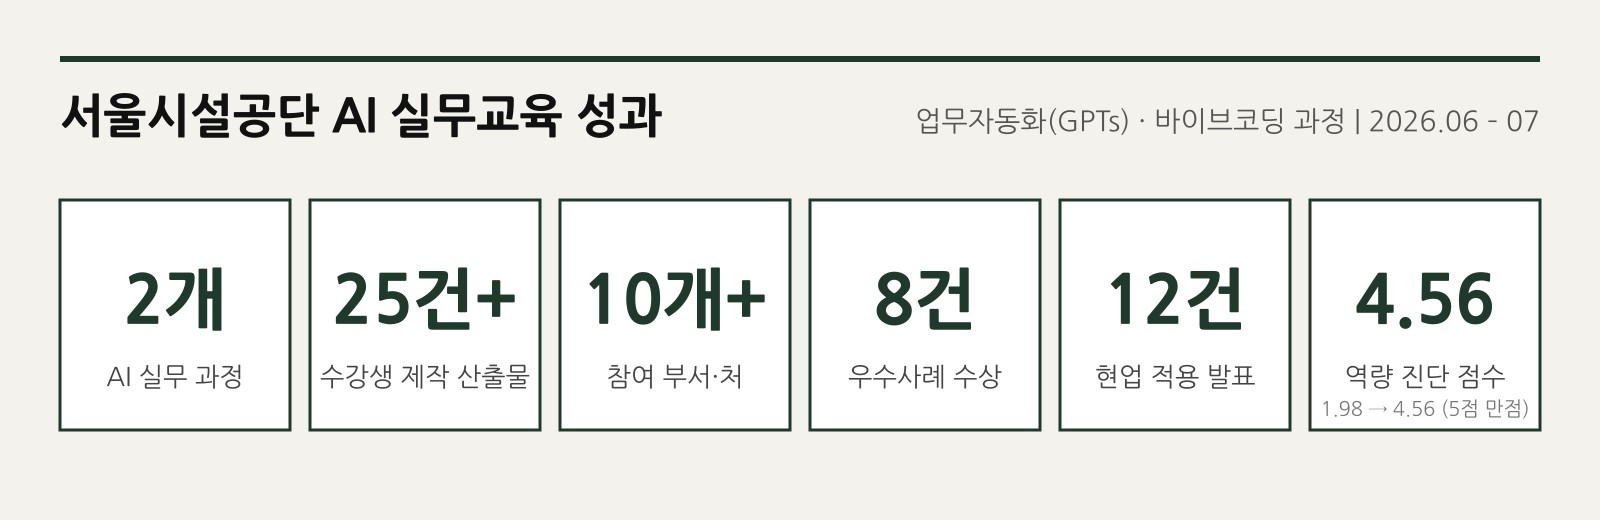
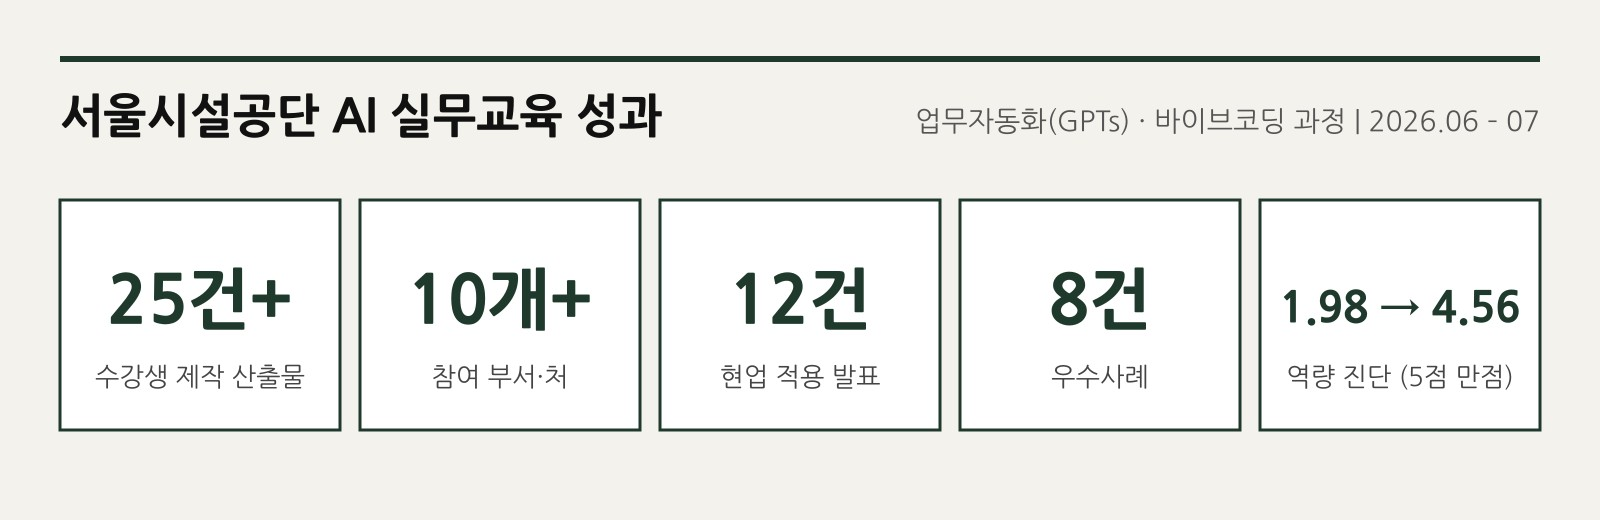
AI Product Builder 지원용 개편: 문제-설계-결과 구조, L-Desk 추가

diff --git a/README.md b/README.md
@@ -1,18 +1,13 @@
 <table>
 <tr>
 <td width="250" valign="top"><img src="images/profile.jpg" width="230" alt="한지인"></td>
-<td valign="top">
+<td valign="middle">
 
-# 한지인 &nbsp;<sub>JIIN HAN</sub>
+<h1>현업의 병목을 발견해<br>실제 사용까지 연결하는</h1>
 
-**AI Product Builder** &nbsp;·&nbsp; AI가 덜어낸 시간을 창작의 몰입으로 돌려놓는 사람
+AI Product Builder입니다.
 
-**쓰는 사람의 자리에서 설계합니다.**<br>
-무엇을 AI에 맡기고, 어디서 사람이 검증하며, 확보한 시간으로 무엇에 몰입할지까지 제품에 담습니다.<br>
-남의 업무에서 병목을 찾아 제품으로 옮기고, 만든 것을 조직에 퍼뜨려 실제로 쓰이게 합니다.<br>
-영화를 만들어 온 경험으로, 콘텐츠 제작 현장의 "이 일이 왜 막히는가"를 구체적으로 묻습니다.
-
-📧 **blank.hrder@gmail.com**
+<sub>한지인 · JIIN HAN &nbsp;|&nbsp; 📧 blank.hrder@gmail.com</sub>
 
 </td>
 </tr>
@@ -22,43 +17,124 @@
 
 ## 목차
 
-| | 프로젝트 | 분야 |
+| | 프로젝트 | 한 줄 설명 |
 |:--:|---|---|
-| **1** | [**서울시설공단 AI 실무교육**](#1-서울시설공단-ai-실무교육) | AX 교육 과정 기획 · 제안 |
-| **2** | [**Contents Studio**](#2-contents-studio) | 영화 사전제작 웹앱 기획 · 바이브코딩 |
-| **3** | [**Blanco**](#3-blanco) | 팀 업무관리 도구 기획 · 바이브코딩 |
-| **4** | [**수용자 중심 피드백 문화 이러닝**](#4-수용자-중심-피드백-문화-이러닝) | 이러닝 기획 · 제작 · 출연 |
-| **5** | [**기후위기 인터랙티브 무비**](#5-기후위기-인터랙티브-무비) | 인터랙티브 영상 기획 · 연출 · 🏆 대상 |
+| **1** | [**Contents Studio**](#1-contents-studio) | 같은 정보를 두 번 입력하지 않는 영화 제작 통합 웹앱 |
+| **2** | [**서울시설공단 AI 실무교육**](#2-서울시설공단-ai-실무교육) | 현업의 문제를 3주 만에 작동하는 AI 시스템으로 전환 |
+| **3** | [**L-Desk**](#3-l-desk) | 흩어진 교육 운영을 하나의 파이프라인으로 연결한 사내 LMS |
+| **4** | [**Blanco**](#4-blanco) | 흩어진 업무 암묵지를 실행 가능한 To-do로 바꾸는 팀 업무도구 |
+| **5** | [**Interactive Learning**](#5-interactive-learning) | 데이터로 문제를 확인하고 수용자별 학습 경험으로 설계 |
+| **6** | [**Interactive Movie**](#6-interactive-movie) | 관객의 선택이 이야기의 결과를 바꾸는 인터랙티브 콘텐츠 |
 
 <br>
 
 ---
 
-<sub>**실무 · 교육 과정 기획** &nbsp;|&nbsp; AX 교육</sub>
+<sub>**개인 프로젝트** &nbsp;|&nbsp; 기획 · UX 구조화 · Claude Code 기반 개발 &nbsp;|&nbsp; 2026.07 – 09 (진행 중)</sub>
 
-## 1. 서울시설공단 AI 실무교육
+## 1. Contents Studio
+
+**같은 정보를 두 번 입력하지 않는 영화 제작 통합 웹앱**
+
+👉 **[웹앱 바로가기](https://contents-studio-rouge.vercel.app)** &nbsp;|&nbsp; 데모 계정 `blank.hrder@gmail.com` / `123456` (보기 전용 · 예시 프로젝트 「마지막 손님」)
+
+<img src="images/cs_storyboard.jpg" alt="스토리보드">
+
+| 문제 | 설계 |
+|---|---|
+| 시나리오 · 글콘티 · 스토리보드 · 샷리스트 · 일촬표에 **같은 씬·샷 정보를 반복 입력**<br>한 곳이 바뀌면 다른 문서를 사람이 다시 수정 | 문서를 따로 관리하지 않고, 제작 정보가 **하나의 데이터 흐름**으로 이어지도록 구조화<br>한 번 입력한 정보를 다른 제작 문서에서 재사용 |
+
+**데이터 흐름**
+
+| **Scene** | → | **Shot** | → | **Schedule** | → | **Resource** | → | **Budget** |
+|:--:|:--:|:--:|:--:|:--:|:--:|:--:|:--:|:--:|
+| 시나리오 · 씬 리스트 | | 글콘티 · 스토리보드 · 샷리스트 | | 일촬표 · 진행도 | | 로케이션 · 장비 · 인원 | | 예산안 · 결산안 |
+
+**대표 설계**
+
+| 설계 | 판단 기준을 규칙으로 |
+|---|---|
+| **기본값 상속** | 프로젝트 → 씬 → 샷 순으로 연출 기본값을 물려받고, 샷에서 바꾼 값만 따로 저장 |
+| **촬영시간 자동 계산** | 샷 수 · 세팅 · 장비 중간 세팅 · 해체 · 난이도를 일촬표 작성 기준대로 계산하고, 우선순위에 따라 촬영순서 제안 |
+| **로케이션 비용 자동 계산** | 시간당 · 인원 할증 · 최소 예약시간 규칙으로 후보 장소별 대관료 비교, 미정 금액은 0원이 아닌 상태로 구분 |
+| **계획 ↔ 실제 비교** | 일촬표 계획 시간과 현장 테이크 기록을 대조해 촬영 진행도 표시 |
+
+> **전문가의 판단을 AI가 대신하게 하기보다,<br>반복되는 판단 기준을 제품의 규칙으로 옮겼습니다.**
+
+<table>
+<tr>
+<td><img src="images/cs_shots_grouped.jpg" alt="샷 리스트 촬영순서"><br><sub>샷 리스트 · 우선순위 기준 자동 분류와 세팅·해체 시간</sub></td>
+<td><img src="images/cs_callsheet.jpg" alt="일일촬영계획표"><br><sub>일일촬영계획표 · 다른 문서의 정보로 자동 구성</sub></td>
+</tr>
+<tr>
+<td><img src="images/cs_locations.jpg" alt="로케이션"><br><sub>로케이션 · 후보별 대관료 자동 계산</sub></td>
+<td><img src="images/cs_budget.jpg" alt="결산안"><br><sub>제작비 · 대여 장비 임차비 자동 반영</sub></td>
+</tr>
+<tr>
+<td><img src="images/cs_conti.jpg" alt="글콘티"><br><sub>글콘티 · 시나리오를 컷으로 나누고 연출 선택</sub></td>
+<td><img src="images/cs_floorplan.jpg" alt="플로어플랜"><br><sub>플로어플랜 · 카메라·배우·장비 배치와 동선</sub></td>
+</tr>
+</table>
+
+<details>
+<summary><b>개발 방식 · AI 에이전트와 일하는 규칙</b></summary>
+
+<br>
+
+- **규칙을 문서로 먼저**: 디자인 · 입력 흐름 · 권한 · 사전 승인이 필요한 작업을 `CLAUDE.md`에 명문화해 모든 화면이 같은 기준으로 만들어지도록 설계
+- **결정은 사람, 실행은 에이전트**: DB 구조 변경 · 삭제 · 권한 변경은 사전 승인 후 진행, 매 변경마다 타입 검사 · 린트 · 빌드로 검증
+- **검증 루프**: 마이그레이션과 예시 데이터를 테스트 DB에서 먼저 실행한 뒤 실제 DB에 적용
+- **계산 로직 분리**: 촬영순서 · 대관료 · 제작비 계산을 화면과 분리된 공통 함수로 구조화
+
+`Next.js` `TypeScript` `Supabase` `Vercel` · `Claude Code` `VS Code`
+
+</details>
+
+<br>
+
+---
+
+<sub>**실무 · 발주처 서울시설공단** &nbsp;|&nbsp; 과정 기획 · 현업 과제 구조화 · 실습 운영 · 결과물 고도화 &nbsp;|&nbsp; 2026.06 – 07</sub>
+
+## 2. 서울시설공단 AI 실무교육
+
+**현업의 문제를 3주 만에 작동하는 AI 시스템으로 전환**
+
+| Before | After |
+|---|---|
+| AI 도구 사용법을 배우는 교육 | 직원이 **자기 부서의 실제 문제를 선정**하고, 3주 동안 AI 웹앱 · 자동화 시스템으로 구현하도록 설계 |
+
+**대표 사례** — 한 번의 답변이 아니라, 여러 단계의 분석과 판단이 이어지는 Multi-step AI Workflow
+
+<table>
+<tr>
+<td width="50%" valign="top">
+
+**① 현장 위험성 평가 시스템** · 안전관리 · 🏆 수상
+
+| 현장 사진 | → | 위험요인 분석 | → | 법령 근거 연결 | → | 위험성 평가 지원 |
+|:--:|:--:|:--:|:--:|:--:|:--:|:--:|
+
+현장 사진에서 위험요인을 식별하고, 관련 법령 근거까지 연결해 위험성 평가를 지원하는 AI 웹앱
+
+</td>
+<td width="50%" valign="top">
+
+**② 공공자전거 수리 우선순위 시스템** · 공공자전거 운영처 · 🏆 수상
+
+| 고장 데이터 | → | 수리 대상 선별 | → | 우선순위 판단 | → | 정비 대상 정리 |
+|:--:|:--:|:--:|:--:|:--:|:--:|:--:|
+
+고장 데이터를 기반으로 수리가 필요한 자전거를 자동 선별하고 수리 우선순위를 제안하는 업무 시스템
+
+</td>
+</tr>
+</table>
 
 <img src="images/sfc_kpi.jpg" alt="서울시설공단 AI 실무교육 성과">
 
-| | |
-|---|---|
-| **프로젝트 개요** | 서울시설공단 직원(사무·조경·시설직)을 위한 AI 실무교육 2개 과정을 기획·제안했습니다. 도구 사용법 실습이 아니라, 직원들이 **자기 부서의 실제 업무를 3주 만에 작동하는 AI 시스템으로 만드는** 프로젝트형 과정으로 설계했습니다. |
-| **과정 구성** | ① AI 기반 업무자동화(GPTs) 과정 &nbsp; ② 바이브코딩 — AI 웹앱 개발 실전 과정<br>각 3주 시리즈 · 본인 과제 1개를 회차마다 발전시켜 완성 |
-| **주요 결과** | 수강생 제작 산출물 **25건+** · 참여 부서 **10개+** · 우수사례 **8건** 수상 · 현업 적용 발표 **12건**<br>참여자 역량 진단 점수 **1.98 → 4.56점** (5점 만점) · 후속 리더십(직위자) 과정 요청으로 이어짐 |
-| **역할** | 과정 기획 · 제안, 과정 설계, 보조강사<br>바이브코딩 과정에서 직원들이 각자 부서의 병목을 진단하고 웹앱으로 기획하도록 코칭 |
-| **발주처** | 서울시설공단 |
-| **기간** | 2026년 6월 – 7월 |
-
-**대표 성과**
-
-> **① 주요사업 통합 관리 대시보드 — 기획조정실** &nbsp;·&nbsp; *프로세스 재설계*<br>
-> 공단 200여 개 주요사업을 부서·전략별로 검색하고, 분기 실적 입력 · AI 사업개요 요약 · 추진결과 보고서(PDF) 자동 생성까지 하나로 묶었습니다. 부서→담당→기획실로 이어지던 다단계 한글파일 취합 절차 자체를 대체했고, 상반기 실적 제출부터 실사용 · 사내서버 연동 예정입니다.
-
-> **② 미납 관리 웹 크롤링 실행파일(exe) — 수납·계약 담당** &nbsp;·&nbsp; *입문자의 실행파일*<br>
-> AI를 처음 다뤄 본 직원이 3주 만에 미납 정보를 자동 수집해 엑셀로 정리하는 실행파일을 만들었습니다. 100~200건을 순식간에 처리하고, 개인정보를 외부에 올리지 않는 로컬 방식이라 보안에도 유리합니다. 최종 베스트케이스로 수상했습니다.
-
 <details>
-<summary><b>과정별 결과물 자세히 보기</b></summary>
+<summary><b>과정별 결과물 전체 보기</b></summary>
 
 <br>
 
@@ -76,7 +152,7 @@
 
 | 부서 | 만든 시스템 | 상태 |
 |---|---|---|
-| 기획조정실 | 주요사업 통합 관리 대시보드 | 완성 · 도입 예정 |
+| 기획조정실 | 주요사업 통합 관리 대시보드 (200여 개 사업, 보고 절차 대체) | 완성 · 도입 예정 |
 | 안전관리 | 현장 위험성 평가 앱 (사진 분석 · 법령 근거) | 완성 · 수상 |
 | 인재문화원 | 교육운영 도우미 · 자격증 지원 · 만족도 실시간 조사 | 완성 · 라이브 테스트 |
 | 공공자전거 운영처 | 고장 자전거 자동 선별 · 수리 우선순위 | 완성 · 수상 |
@@ -91,79 +167,63 @@
 
 ---
 
-<sub>**개인 프로젝트** &nbsp;|&nbsp; 웹앱 기획 · 바이브코딩</sub>
+<sub>**실무 · 사내 시스템** &nbsp;|&nbsp; 기획 · AI 활용 개발 · 사내 적용 및 확산</sub>
 
-## 2. Contents Studio
+## 3. L-Desk
 
-**시나리오 한 번 입력으로, 촬영 현장까지 모든 문서가 연결되는 영화 사전제작 통합 웹앱**
+**흩어진 교육 운영을 하나의 파이프라인으로 연결한 사내 LMS**
 
-👉 **[웹앱 바로가기](https://contents-studio-rouge.vercel.app)** &nbsp;|&nbsp; 데모 계정 `blank.hrder@gmail.com` / `123456` (보기 전용 · 예시 프로젝트 「마지막 손님」)
-
-<img src="images/cs_storyboard.jpg" alt="스토리보드">
-
-| | |
+| 문제 | 설계 |
 |---|---|
-| **프로젝트 개요** | 가톨릭대 영상 창업동아리 **'디프'**를 이끌며, 일하는 구조를 맞춰야 창작에 몰입할 수 있다는 것을 배웠습니다. 시나리오·콘티·일촬표·제작비를 각각 다른 엑셀과 문서로 관리하던 불편을 풀기 위해 만든 제작 웹앱입니다. 씬 → 컷(샷) → 촬영 일정 → 예산이 **하나의 데이터로 이어져**, 한 곳을 고치면 모든 문서가 함께 바뀝니다. |
-| **주요 기능** | 시나리오 · 글콘티 · 스토리보드 · 샷 리스트 · 일일촬영계획표 · 로케이션 · 장비/대여 · 배우/스태프 · 의상/소품 · 플로어플랜 · 제작비(예산안·결산안·증빙) · 현장 스크립트 · 촬영 진행도 |
-| **역할** | 기획 · UX 설계 · 데이터 구조 설계 · AI 에이전트 협업 개발 (1인) |
-| **사용 도구** | Claude Code · VS Code &nbsp;/&nbsp; Next.js · TypeScript · Supabase · Vercel |
-| **기간** | 2026년 7월 – 9월 (진행 중) |
+| 한 과정을 운영할 때 명단 · 안내 · 출결 · 강사정보 · 교육자료 · 결과보고를 엑셀 · 메일 · 문서에서 따로 관리<br>**같은 정보를 단계마다 반복 입력** | 한 번 등록한 정보가 **다음 운영 단계까지 이어지도록** 운영 전 과정을 하나의 파이프라인으로 구조화 |
 
-**자동화 설계** — *같은 정보를 두 번 입력하지 않는다*
+**운영 파이프라인**
 
-| 자동화 | 내용 |
-|---|---|
-| **데이터 연결** | 시나리오 씬·등장인물 → 글콘티 컷 → 스토리보드 → 샷 리스트 → 일촬표가 같은 데이터를 참조. 복사하지 않아 한 곳만 고치면 전체 반영 |
-| **샷 촬영순서 자동 분류** | 로케이션 · DAY/NIGHT · 카메라 방향 · 장비 조합 · 샷 크기 등 **우선순위를 사용자가 정하면** 샷을 자동으로 묶어 촬영순서 제안 |
-| **촬영시간 산출** | 일촬표 작성 매뉴얼(세 컷당 30분, 최초 세팅 1시간, 짐벌·슬라이더 중간 세팅, 해체, 난이도 할증)을 규칙으로 옮겨 씬·로케이션별 예상 시간 자동 계산 |
-| **대관료 계산 엔진** | 고정 · 시간당 · 인원 추가금 · 인원 구간 할증 · 최소 예약시간 · 협의 필요를 규칙으로 설정하면 후보 장소별 대관료를 즉시 비교. 가격 미정은 0원으로 계산하지 않고 상태로 구분 |
-| **일촬표 자동 구성** | 회차에 씬만 넣으면 촬영지 · 등장인물 · 컷수 · 의상 · 소품 · 장비 · 스태프 · 배우 집합 · 다음 회차가 자동으로 채워지고, 일출·일몰 계산 · 날씨 예보 불러오기 · A4 한 장 인쇄 |
-| **제작비 연동** | 대여 목록에 장비를 넣으면 제작비에 임차비가 DB에서 자동 생성 · 수량/기간 연동 |
-| **연출 요소 상속** | 샷의 Frame Size · Angle 등을 직접 → 글콘티 문장 인식 → 씬 기본값 → 영상 기본값 순으로 채움 |
+| **교육생 명단** | → | 안내 | → | QR 출결 | → | 수료 | → | 결과보고 |
+|:--:|:--:|:--:|:--:|:--:|:--:|:--:|:--:|:--:|
+| **강사 정보** | → | 과정 연결 | → | 일정 | → | 강사료 | → | 결과보고 |
 
-**에이전틱 개발 전략** — *AI 에이전트와 일하는 방식을 설계*
-- **규칙을 문서로 먼저**: 디자인 원칙 · 입력 흐름 · 드롭다운/모달 규칙 · 권한 · "확인이 필요한 작업"을 `CLAUDE.md`에 명문화해, 에이전트가 수십 개 화면을 같은 기준으로 만들도록 함
-- **사람이 결정, 에이전트가 실행**: DB 구조 변경 · 삭제 · 권한 변경은 반드시 사전 승인 후 진행하고, 매 변경마다 타입 검사 · 린트 · 빌드를 자동으로 통과시킴
-- **안전한 검증 루프**: 마이그레이션과 예시 데이터를 테스트용 DB에서 먼저 실행해 확인한 뒤 실제 DB에 적용, 배포 화면은 헤드리스 브라우저로 직접 열어 캡처·점검
-- **계산 로직은 공통 함수로 분리**해 화면과 독립적으로 테스트 (촬영순서 · 대관료 · 제작비 · 일출·일몰)
+**결과**
 
-<table>
-<tr>
-<td><img src="images/cs_shots_grouped.jpg" alt="샷 리스트 촬영순서"><br><sub>샷 리스트 · 우선순위 기준 자동 분류와 세팅·해체 시간</sub></td>
-<td><img src="images/cs_callsheet.jpg" alt="일일촬영계획표"><br><sub>일일촬영계획표 · 다른 메뉴 데이터로 자동 구성</sub></td>
-</tr>
-<tr>
-<td><img src="images/cs_locations.jpg" alt="로케이션"><br><sub>로케이션 · 후보별 대관료 자동 계산과 최종 장소</sub></td>
-<td><img src="images/cs_budget.jpg" alt="결산안"><br><sub>제작비 · 결산안 (임차비 자동 반영)</sub></td>
-</tr>
-<tr>
-<td><img src="images/cs_conti.jpg" alt="글콘티"><br><sub>글콘티 · 시나리오를 컷으로 나누고 연출 선택</sub></td>
-<td><img src="images/cs_floorplan.jpg" alt="플로어플랜"><br><sub>플로어플랜 · 카메라·배우·장비 배치와 동선</sub></td>
-</tr>
-</table>
+| 1인당 월 운영 가능 과정 | 적용 · 확산 |
+|:--:|---|
+| **3개 → 5~6개** | 실제 교육 운영에 적용<br>임직원 대상 서비스 시연<br>활용 사례 발표 |
+
+<sub>🔒 사내 업무 시스템으로 서비스 및 소스코드는 공개하지 않습니다.</sub>
 
 <br>
 
 ---
 
-<sub>**실무 · 팀 프로젝트** &nbsp;|&nbsp; 업무관리 도구 기획 · 바이브코딩</sub>
+<sub>**실무 · 팀 프로젝트** &nbsp;|&nbsp; 기획 · 개발 · 팀 적용 &nbsp;|&nbsp; Lovable &nbsp;|&nbsp; 2026.02 – 05</sub>
 
-## 3. Blanco
+## 4. Blanco
 
-**팀의 일하는 방식을 구조화해 만든 팀 표준 업무관리 도구**
+**업무 프로세스 · 인수인계 · 매뉴얼에 흩어진 암묵지를 실행 가능한 To-do로 바꾸는 팀 업무도구**
 
 👉 **[Blanco 바로가기](https://blancohrd.lovable.app/)** &nbsp;|&nbsp; 로그인 `blank.hrder@gmail.com` / `12345678`
 
 <img src="images/blanco_home.jpg" alt="Blanco 홈 대시보드">
 
-| | |
+| 문제 | 설계 |
 |---|---|
-| **프로젝트 개요** | 인수인계 체계 없이 프로젝트를 일일이 관리해 인적 오류가 잦았습니다. 범용 툴로는 우리 팀 업무의 흐름까지 담기 어려워, 교육 운영 단계와 인수인계 내용을 템플릿에 담고 **지난 마감은 자동으로 끌어올리는** 팀 표준 업무 도구를 만들어 팀에 전파했습니다. |
-| **주요 결과** | 놓치는 업무 **90% 감소** · 회고가 태그별로 모여 후임자의 인수인계 자료로 활용 |
-| **주요 기능** | 홈 대시보드(진행 프로젝트 · 오늘의 업무 · 마일스톤 D-day) · 업무보드(실행단계 간트 · 태스크) · 캘린더 · 업무허브 · 자료실 · 가이드 · 손익관리 · 회고 |
-| **역할** | 팀 업무 구조화 · 기획 · 웹앱 반영 · 바이브코딩 (전체) |
-| **사용 도구** | Lovable |
-| **기간** | 2026년 2월 – 5월 |
+| 업무 노하우와 인수인계가 문서와 개인의 기억에 흩어져, 새 프로젝트마다 담당자가 매뉴얼을 다시 읽고 할 일을 직접 정리<br>**업무 방법은 조직 안에 있지만 실행 가능한 형태가 아닌 상태** | 흩어진 암묵지를 **과정 유형별 템플릿으로 구조화**하고, 프로젝트 생성과 동시에 실행 가능한 To-do로 펼쳐지도록 설계 |
+
+| 프로세스 · 매뉴얼 · 인수인계 | → | 암묵지 구조화 | → | 업무 템플릿 | → | 프로젝트 생성 | → | To-do 자동 구성 | → | 진행 관리 | → | 회고 축적 |
+|:--:|:--:|:--:|:--:|:--:|:--:|:--:|:--:|:--:|:--:|:--:|:--:|:--:|
+
+| 대표 기능 | |
+|---|---|
+| **업무 프로세스 템플릿화** | 과정 유형별 업무 순서와 체크포인트를 재사용 가능한 템플릿으로 저장 |
+| **암묵지 → To-do 전환** | 인수인계 · 매뉴얼 내용을 실행 가능한 업무 단위로 바로 생성 |
+| **지난 마감 자동 이월** | 기한이 지난 미완료 업무를 오늘의 할 일로 끌어올려 누락 방지 |
+| **회고 축적** | 프로젝트 회고를 태그별로 저장해 다음 프로젝트와 후임자의 인수인계 자산으로 활용 |
+
+| 결과 | |
+|:--:|---|
+| **놓치는 업무 약 90% 감소** | 교육 운영 자체는 L-Desk가, 팀의 일하는 방식은 Blanco가 맡도록 역할 분리 |
+
+> **사람에게만 남아 있던 업무 암묵지를<br>팀이 반복해서 실행할 수 있는 구조로 바꿨습니다.**
 
 <img src="images/blanco_board.jpg" alt="Blanco 업무보드">
 
@@ -171,26 +231,26 @@
 
 ---
 
-<sub>**교육 과정 · 개인 프로젝트** &nbsp;|&nbsp; 이러닝 기획 · 제작 · 출연</sub>
+<sub>**교육 과정 · 개인 프로젝트** &nbsp;|&nbsp; 데이터 분석 · 교육 기획 · 인터랙티브 콘텐츠 제작 &nbsp;|&nbsp; 2025.04 – 07</sub>
 
-## 4. 수용자 중심 피드백 문화 이러닝
+## 5. Interactive Learning
 
-**데이터로 교육 요구를 찾고, DiSC 유형별 페르소나에 맞춰 피드백을 골라 보는 인터랙티브 이러닝**
+**데이터로 문제를 확인하고 수용자별 학습 경험으로 설계** &nbsp;<sub>수용자 중심 피드백 문화 이러닝</sub>
 
 [![수용자 중심 피드백 문화 1강](https://img.youtube.com/vi/r71QRddQceo/hqdefault.jpg)](https://www.youtube.com/watch?v=r71QRddQceo)
 
-| | |
-|---|---|
-| **프로젝트 개요** | 넷플릭스 직원 리뷰 데이터를 분석해, 리뷰의 단점(cons)에 'communication'이 등장하면 조직문화 평점이 통계적으로 유의하게 낮아진다는 점(t-검정, n-gram 분석)을 찾았습니다. 이를 근거로 **심리적 안전감 기반 커뮤니케이션 교육**의 필요성을 도출하고, 팀장 대상 피드백 이러닝을 제작했습니다. |
-| **교육 설계** | 대상: HRD팀 중간관리자(팀장) · 10분<br>학습목표: 수용자 중심 피드백의 필요성 설명 / DiSC 성격 유형에 기반한 피드백 실천<br>구성: 주의 포착(피드백의 테니스 비유) → 개념 · 필요성 → DiSC 기반 피드백 → 인터랙티브 실습(보기 선택) → 정리 |
-| **역할** | 요구분석(데이터 분석) · 과정 기획 · 영상 기획 · 촬영 · 출연 · 강의 · 편집 **100%** |
-| **과정** | 서울시 매력일자리 'HRD 에듀테크 AI 콘텐츠 기획자 과정' 수료 · 한국에듀테크산업협회<br>(같은 과정에서 교육과정 '영화 분석 입문'도 개발) |
-| **기간** | 2025년 4월 – 7월 |
+| **Data** | → | **Problem Definition** | → | **Persona** | → | **Interaction** |
+|:--:|:--:|:--:|:--:|:--:|:--:|:--:|
+| Netflix 직원 리뷰 분석 | | 리뷰 단점(cons)에 communication이 등장하면 조직문화 평점이 통계적으로 유의하게 낮음 (t-검정) | | 같은 피드백도 받는 사람에 따라 다르게 받아들인다고 판단 → DiSC 유형별 페르소나 | | "이 사람에게 어떻게 말하시겠습니까?" 선택 → 결과 피드백 확인 |
+
+- **대상 · 분량**: HRD팀 중간관리자(팀장) · 10분
+- **과정**: 서울시 매력일자리 'HRD 에듀테크 AI 콘텐츠 기획자 과정' · 한국에듀테크산업협회
+- **제작**: 요구분석부터 교육 기획 · 영상 기획 · 촬영 · 출연 · 편집까지 1인 제작
 
 <table>
 <tr>
 <td><img src="images/elearning_analysis.jpg" alt="요구분석 데이터 분석"><br><sub>요구분석 · 리뷰 데이터 t-검정</sub></td>
-<td><img src="images/elearning_video.jpg" alt="이러닝 영상"><br><sub>이러닝 영상 · 기획·촬영·출연·편집</sub></td>
+<td><img src="images/elearning_video.jpg" alt="이러닝 영상"><br><sub>이러닝 영상</sub></td>
 </tr>
 </table>
 
@@ -198,21 +258,21 @@
 
 ---
 
-<sub>**공모전 · 팀 프로젝트 (팀 그린스완)** &nbsp;|&nbsp; 인터랙티브 영상 기획 · 연출 &nbsp;·&nbsp; 🏆 대상</sub>
+<sub>**공모전 · 팀 그린스완** &nbsp;|&nbsp; 기획 · 연출 · 인터랙션 설계 &nbsp;|&nbsp; 임팩트닷커리어 '작전명: 임팩트타운' &nbsp;|&nbsp; 2024.08 – 10</sub>
 
-## 5. 기후위기 인터랙티브 무비
+## 6. Interactive Movie
 
-**복권 긁기 프로젝트 — 관객이 선택하며 환경 문제를 체감하는 인터랙티브 무비**
+**관객의 선택이 이야기의 결과를 바꾸는 인터랙티브 콘텐츠** &nbsp;<sub>기후위기 인터랙티브 무비 · 복권 긁기 프로젝트</sub>
 
 [![기후위기 인터랙티브 무비](https://img.youtube.com/vi/6eBac-6hc8w/hqdefault.jpg)](https://www.youtube.com/watch?v=6eBac-6hc8w)
 
-| | |
-|---|---|
-| **프로젝트 개요** | 임팩트닷커리어 아이디어 공모전 '작전명: 임팩트타운'에 팀 그린스완으로 참여해, 관객의 선택에 따라 전개가 달라지며 기후위기를 체감하게 하는 인터랙티브 무비를 제작했습니다. |
-| **수상** | **대상** · 미디어 S/W 및 콘텐츠제작대회 (가톨릭대 미디어기술콘텐츠학과, 2024.11) |
-| **역할** | 기획 · 연출 · 프로듀서 · 촬영 · 편집 |
-| **주최** | 임팩트닷커리어 |
-| **기간** | 2024년 8월 – 10월 |
+| 선택 | → | 결과 | → | 다음 선택 |
+|:--:|:--:|:--:|:--:|:--:|
+
+기후위기 정보를 일방적으로 전달하기보다, 관객이 직접 선택하고 그 결과를 경험하도록 스토리 구조를 설계.<br>
+관객을 시청자가 아닌 **콘텐츠의 흐름에 개입하는 사용자**로 설정.
+
+🏆 **2024년도 미디어 S/W 및 콘텐츠 제작대회 대상**
 
 <br>
 
